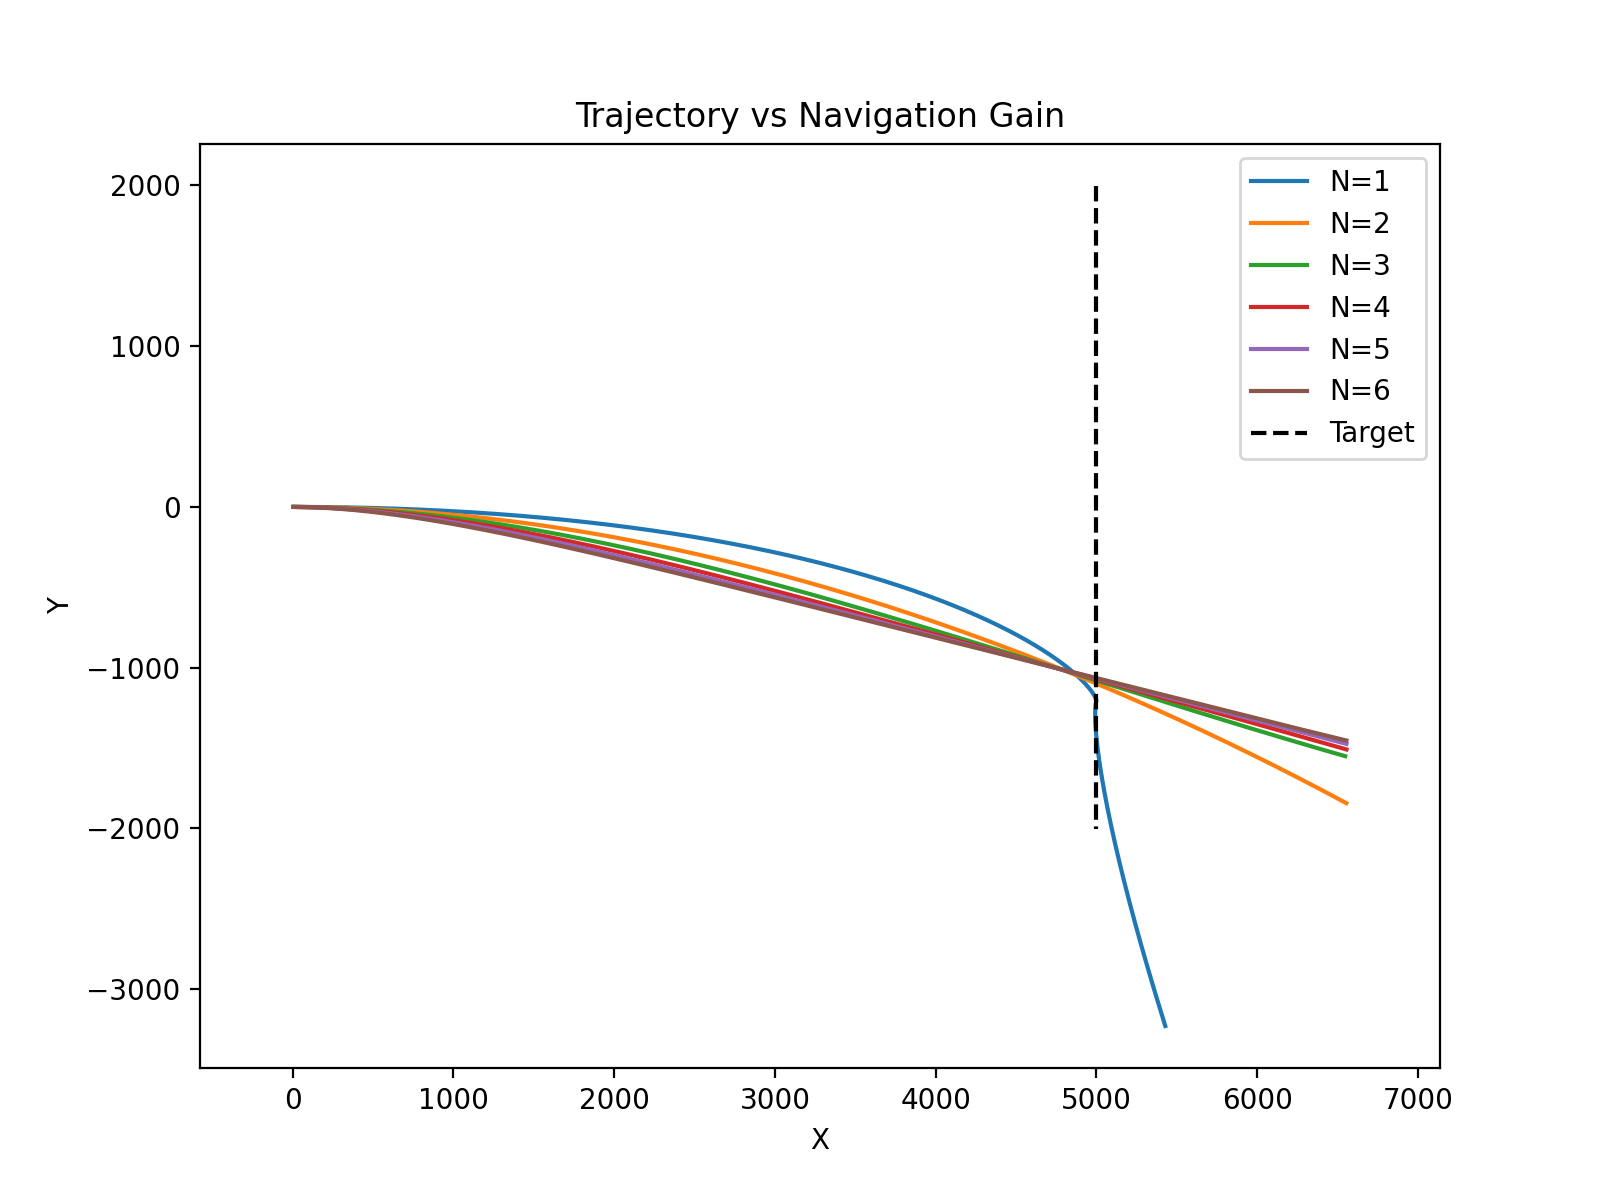
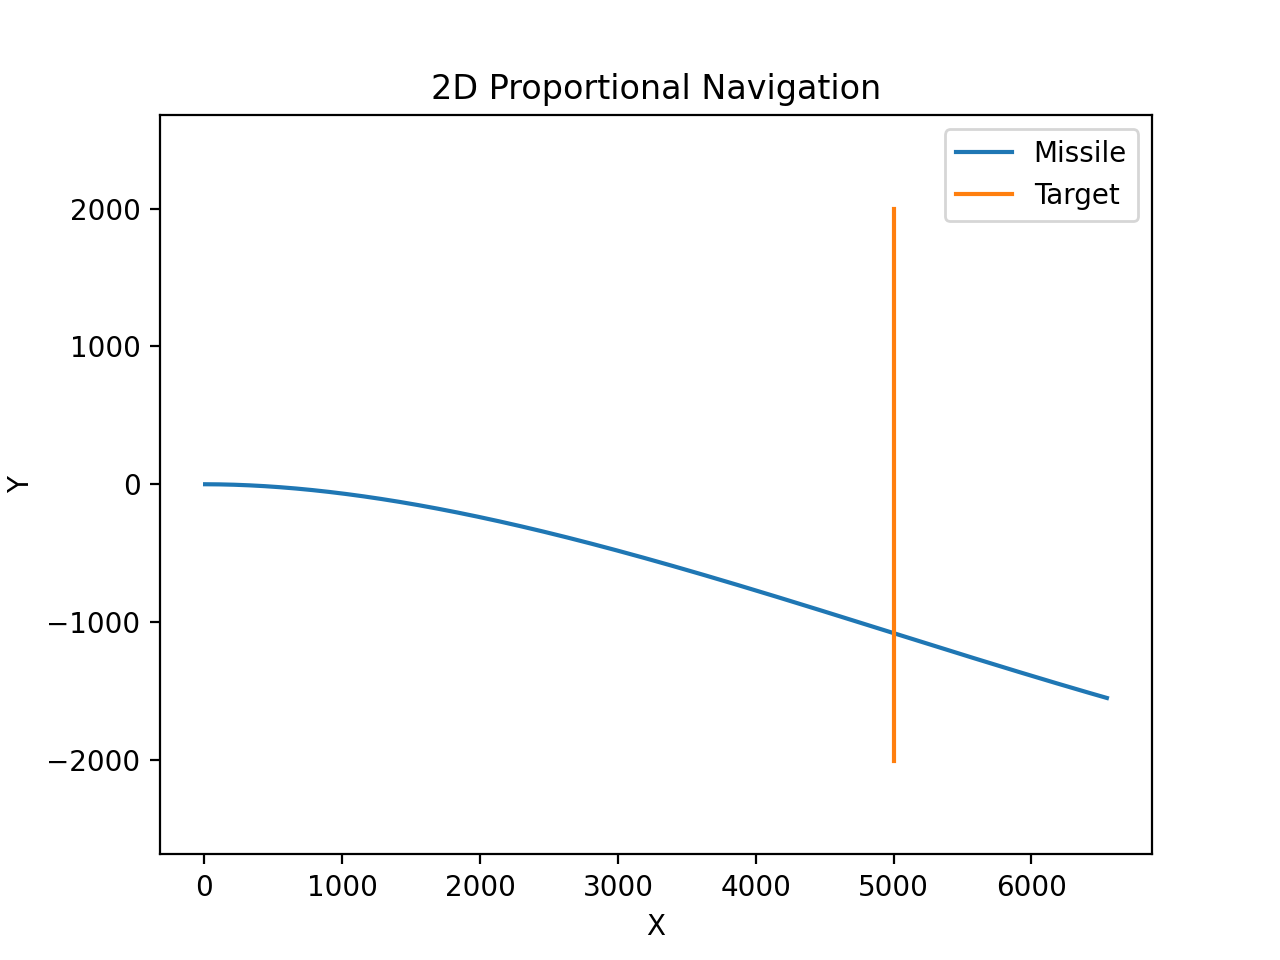
Fixing 4th Experimental Result by Improving Numerical Stability

diff --git a/src/analysis/metrics.py b/src/analysis/metrics.py
@@ -1,9 +1,31 @@
 import numpy as np
 
 # 요격 성능 평가 지표
-def compute_miss_distance(missile_traj, target_traj):
-    # 시간별 상대적 거리 계산
-    distances = np.linalg.norm(missile_traj - target_traj, axis=1)
+def compute_miss_distance(missile_traj, target_traj, dt):
+    min_dist = np.inf
 
-    # 최솟값 반환
-    return np.min(distances)
+    for k in range(len(missile_traj) - 1):
+
+        r0 = missile_traj[k] - target_traj[k]
+        r1 = missile_traj[k+1] - target_traj[k+1]
+
+        # 상대 속도 (선형 가정)
+        v_rel = (r1 - r0) / dt
+
+        v_norm_sq = np.dot(v_rel, v_rel)
+
+        if v_norm_sq < 1e-12:
+            dist = np.linalg.norm(r0)
+            min_dist = min(min_dist, dist)
+            continue
+
+        # 구간 내 최소 거리 시점
+        tau = -np.dot(r0, v_rel) / v_norm_sq
+        tau = np.clip(tau, 0.0, dt)
+
+        r_tau = r0 + v_rel * tau
+        dist = np.linalg.norm(r_tau)
+
+        min_dist = min(min_dist, dist)
+
+    return min_dist

diff --git a/src/main.py b/src/main.py
@@ -17,10 +17,6 @@ def run_simulation(N):
     config = Config()
     config.navigation_gain = N
 
-    # # models(missile/target) 객체 생성
-    # missile = Missile2D([0, 0], [300, 0])
-    # target = Target2D([5000, 1000], [250, 0])
-
     # models(missile/target) 객체 생성
     missile = Missile2D([0, 0], [300, 0])
     target = Target2D([5000, 2000], [0, -200])
@@ -37,7 +33,7 @@ def run_simulation(N):
     missile_traj = np.array(history["missile"])
     target_traj = np.array(history["target"])
 
-    miss_distance = compute_miss_distance(missile_traj, target_traj)
+    miss_distance = compute_miss_distance(missile_traj, target_traj, config.dt)
 
     return missile_traj, target_traj, miss_distance
 
@@ -64,7 +60,7 @@ def main():
 
     print("=== Miss Distance Results ===")
     for N, miss in results:
-        print(f"N={N} → Miss Distance: {miss:.4f} m")
+        print(f"N={N} → Miss Distance: {miss:.2f} m")
 
 
 if __name__ == "__main__":

diff --git a/README.md b/README.md
@@ -145,6 +145,7 @@ src/
 | **적분 함수** | Euler | Euler | Euler | Euler | Euler | Euler | Euler | Euler | Euler | Euler |
 | **MissDistance** | 0.68 | **0.04(0.64⇣)** | **0.59(0.09⇣)** | 1.22(0.54⇡) | 5.04(4.36⇡) | 2.48(1.80⇡) | 3.28(2.60⇡) | 3.73(3.05⇡) | 4.35(3.67⇡) | 7.81(7.13⇡) |
 
+- 결과 해석: Euler 성능 민감도(평균 상대오차값)가 **0.67**로 낮은 수치 신뢰성을 가짐을 확인可
 
 ![exp04](assets/result/exp04/Figure_11.png)
 | --- | --- | --- | --- | --- | --- | --- |
@@ -155,27 +156,29 @@ src/
 | **적분 함수** | RK4 | RK4 | RK4 | RK4 | RK4 | RK4 | RK4 | RK4 | RK4 | RK4 |
 | **MissDistance** | 0.99 | **0.67(0.32⇣)** | **0.35(0.64⇣)** | **0.03(0.96⇣)** | 3.49(2.50⇡) | **0.62(0.37⇣)** | 5.45(4.46⇡) | 1.26(0.27⇡) | 1.58(0.59⇡) | 10.87(9.88⇡) |
 
-- 결과 해석: Euler 성능 민감도(**2.49**)가 RX4 성능 민감도(**1.71**) 대비 높음을 보임
+- 결과 해석: RX4 성능 민감도(평균 상대오차값)가 **4.21**로 Euler 대비 수치 신뢰성이 하락함을 확인可 ⇢ 연속 최소거리 계산 방식으로 변경要(현재 설정에서 측정방식이 너무 거침)
 
 ![exp04](assets/result/exp04/Figure_21.png)
-| Param | PNG(Base) | PNG(Tune_1) | PNG(Tune_2) | PNG(Tune_3) | PNG(Tune_4) | PNG(Tune_5) |
-| --- | --- | --- | --- | --- | --- | --- |
-| **Dt** | 0.02 | 0.02 | 0.02 | 0.02 | 0.02 | 0.02 |
-| **TotalTime** | 20.0 | 20.0 | 20.0 | 20.0 | 20.0 | 20.0 |
-| **NavigationGain** | 3.0 | 1.0 | 2.0 | 4.0 | 5.0 | 6.0 |
-| **Vel(Missile(X),Target(Y))**| (300, -200) | (300, -200) | (300, -200) | (300, -200) | (300, -200) | (300, -200) |
-| **적분 함수** | Euler | Euler | Euler | Euler | Euler | Euler |
-| **MissDistance** | 0.16 | 1.41(⇡) | 2.21(⇡) | **0.02(⇣)** | 0.66(⇡) | 1.50(⇡) |
 
-![exp04](assets/result/exp04/Figure_22.png)
-| Param | PNG(Base) | PNG(Tune_1) | PNG(Tune_2) | PNG(Tune_3) | PNG(Tune_4) | PNG(Tune_5) |
-| --- | --- | --- | --- | --- | --- | --- |
-| **Dt** | 0.04 | 0.04 | 0.04 | 0.04 | 0.04 | 0.04 |
-| **TotalTime** | 20.0 | 20.0 | 20.0 | 20.0 | 20.0 | 20.0 |
-| **NavigationGain** | 3.0 | 1.0 | 2.0 | 4.0 | 5.0 | 6.0 |
-| **Vel(Missile(X),Target(Y))**| (300, -200) | (300, -200) | (300, -200) | (300, -200) | (300, -200) | (300, -200) |
-| **적분 함수** | RK4 | RK4 | RK4 | RK4 | RK4 | RK4 |
-| **MissDistance** | 0.16 | 2.69(⇡) | 4.80(⇡) | **0.05(⇣)** | 6.31(⇡) | 1.45(⇡) |
+| Param | PNG(Base) | PNG(Tune_1) | PNG(Tune_2) |
+| --- | --- | --- | --- |
+| **Dt** | 0.02 | 0.01 | 0.005 |
+| **TotalTime** | 20.0 | 20.0 | 20.0 |
+| **NavigationGain** | 3.0 | 3.0 | 3.0 |
+| **Vel(Missile(X),Target(Y))**| (300, -200) | (300, -200) | (300, -200) | (300, -200) |
+| **적분 함수** | Euler | Euler | Euler |
+| **MissDistance** | 0.00 | 0.00 | 0.00 |
 
-- 결과 해석: Exp03 결과 재확인可
+![exp04](assets/result/exp04/Figure_31.png)
+
+| Param | PNG(Base) | PNG(Tune_1) | PNG(Tune_2) |
+| --- | --- | --- | --- |
+| **Dt** | 0.02 | 0.01 | 0.005 |
+| **TotalTime** | 20.0 | 20.0 | 20.0 |
+| **NavigationGain** | 3.0 | 3.0 | 3.0 |
+| **Vel(Missile(X),Target(Y))**| (300, -200) | (300, -200) | (300, -200) | (300, -200) |
+| **적분 함수** | RK4 | RK4 | RK4 |
+| **MissDistance** | 0.00 | 0.00 | 0.00 |
+
+- 결과 해석: 
 
